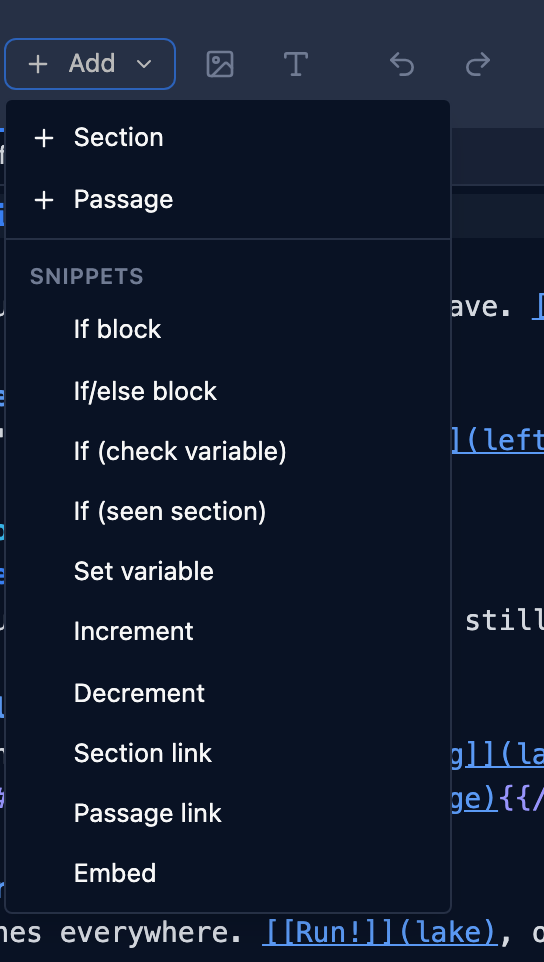
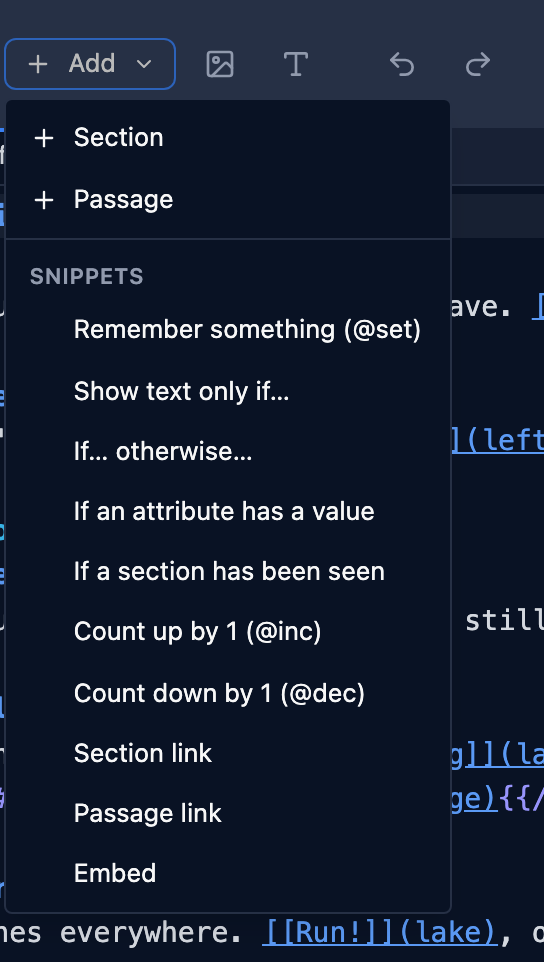
feat: show a newcomer how to make the story remember something (#710)
The starter story now sets an attribute with @set in its passage and shows
one of two lines with {{#if}}…{{else}}…{{/if}}, with a comment on what they
do. The Add menu's snippets are named by task ("Remember something (@set)",
"Show text only if…", "If… otherwise…"…), say "attribute", and insert @set,
@inc and @dec on a line of their own. The Add button's tooltip says what it
holds, and the Tutorial shows the if/else block on its own, explaining #,
else and /.

diff --git a/app/src/lib/editor-commands.test.ts b/app/src/lib/editor-commands.test.ts
@@ -1,7 +1,7 @@
 import { describe, expect, test } from "vitest";
 import { EditorSelection, EditorState } from "@codemirror/state";
 import type { DocumentSymbol } from "squiffy-compiler/language-service";
-import { addSectionOrPassageSpec, userSnippets } from "./editor-commands.js";
+import { addSectionOrPassageSpec, insertSnippetSpec, userSnippets } from "./editor-commands.js";
 
 const range = (start: number, end: number) => ({ start: { line: start, character: 0 }, end: { line: end, character: 0 } });
 const symbol = (name: string, kind: DocumentSymbol["kind"], start: number, end: number): DocumentSymbol =>
@@ -14,6 +14,37 @@ function run(doc: string, from: number, to: number, kind: "section" | "passage",
     const head = after.selection.main.head;
     return after.doc.sliceString(0, head) + "|" + after.doc.sliceString(head);
 }
+
+// Inserts a snippet with | as the cursor, and returns the text with | where the cursor ends up
+function snippet(doc: string, content: string) {
+    const at = doc.indexOf("|");
+    const state = EditorState.create({ doc: doc.replace("|", ""), selection: EditorSelection.cursor(at) });
+    const after = state.update(insertSnippetSpec(state, content)).state;
+    const head = after.selection.main.head;
+    return after.doc.sliceString(0, head) + "|" + after.doc.sliceString(head);
+}
+
+describe("Snippets", () => {
+    test("go where the cursor is", () => {
+        expect(snippet("You see |.", "{{embed \"name\"}}")).toBe("You see {{embed \"name\"}}|.");
+    });
+
+    test("that start with @ go on the cursor's line when it's blank", () => {
+        expect(snippet("[[a]]:\n|\nText.", "@set attribute")).toBe("[[a]]:\n@set attribute|\nText.");
+    });
+
+    test("that start with @ go on a line after the cursor's, when there's text before the cursor", () => {
+        expect(snippet("[[a]]:\nYou take| the key.", "@set attribute")).toBe("[[a]]:\nYou take the key.\n@set attribute|");
+    });
+
+    test("that start with @ go on a line before the cursor's, when the cursor is at its start", () => {
+        expect(snippet("[[a]]:\n|You take the key.", "@set attribute")).toBe("[[a]]:\n@set attribute|\nYou take the key.");
+    });
+
+    test("that start with @ go after a header, not before it", () => {
+        expect(snippet("|[[a]]:\nText.", "@inc score")).toBe("[[a]]:\n@inc score|\nText.");
+    });
+});
 
 describe("Add section and Add passage", () => {
     const doc = "[[a]]:\nGo to cave.\n\n[[b]]:\nEnd.";

diff --git a/app/src/lib/snippets.ts b/app/src/lib/snippets.ts
@@ -1,18 +1,19 @@
-// The 6.x editor's built-in snippets (editor/src/snippets.ts).
+// The Add menu's snippets, named by what they're for (#710), which VS Code's snippets match
+// (vscode/snippets/squiffy.code-snippets). One that starts with @ goes on a line of its own.
 export interface Snippet {
     name: string;
     content: string;
 }
 
 export const builtInSnippets: Snippet[] = [
-    { name: "If block",            content: "{{#if condition}}\n\n{{/if}}" },
-    { name: "If/else block",       content: "{{#if condition}}\n\n{{else}}\n\n{{/if}}" },
-    { name: "If (check variable)", content: '{{#if variable = "value"}}\n\n{{/if}}' },
-    { name: "If (seen section)",   content: '{{#if (seen "section")}}\n\n{{/if}}' },
-    { name: "Set variable",        content: '{{set "variable" "value"}}' },
-    { name: "Increment",           content: '{{inc "variable"}}' },
-    { name: "Decrement",           content: '{{dec "variable"}}' },
-    { name: "Section link",        content: '{{section "name" text="label"}}' },
-    { name: "Passage link",        content: '{{passage "name" text="label"}}' },
-    { name: "Embed",               content: '{{embed "name"}}' },
+    { name: "Remember something (@set)",  content: "@set attribute" },
+    { name: "Show text only if…",         content: "{{#if condition}}\n\n{{/if}}" },
+    { name: "If… otherwise…",             content: "{{#if condition}}\n\n{{else}}\n\n{{/if}}" },
+    { name: "If an attribute has a value", content: '{{#if attribute = "value"}}\n\n{{/if}}' },
+    { name: "If a section has been seen", content: '{{#if (seen "section")}}\n\n{{/if}}' },
+    { name: "Count up by 1 (@inc)",       content: "@inc attribute" },
+    { name: "Count down by 1 (@dec)",     content: "@dec attribute" },
+    { name: "Section link",               content: '{{section "name" text="label"}}' },
+    { name: "Passage link",               content: '{{passage "name" text="label"}}' },
+    { name: "Embed",                      content: '{{embed "name"}}' },
 ];

diff --git a/app/src/lib/editor-commands.ts b/app/src/lib/editor-commands.ts
@@ -16,8 +16,30 @@ export function runCommand(view: EditorView, command: EditorCommand) {
 }
 
 export function insertSnippet(view: EditorView, content: string) {
-    view.dispatch(view.state.replaceSelection(content), { scrollIntoView: true });
+    view.dispatch(insertSnippetSpec(view.state, content), { scrollIntoView: true });
     view.focus();
+}
+
+// A snippet replaces the selection, except one that starts with @, such as @set, which only
+// works on a line of its own: that goes on the cursor's line if it's blank, or else on a new
+// line before it (with the cursor at its start, unless it's a section or passage's header) or
+// after it.
+export function insertSnippetSpec(state: EditorState, content: string): TransactionSpec {
+    if (!content.startsWith("@")) return state.replaceSelection(content);
+    const head = state.selection.main.head;
+    const line = state.doc.lineAt(head);
+    let from = line.from, to = line.to, insert = content;
+    if (line.text.trim()) {
+        if (state.sliceDoc(line.from, head).trim() || /^\[.*\]:\s*$/.test(line.text)) {
+            from = to = line.to;
+            insert = "\n" + content;
+        } else {
+            to = from;
+            insert = content + "\n";
+        }
+    }
+    const end = from + insert.length - (insert.endsWith("\n") ? 1 : 0);
+    return { changes: { from, to, insert }, selection: EditorSelection.cursor(end) };
 }
 
 // A new section or passage, after the section the cursor is in (passages belong to it). With

diff --git a/app/src/lib/project.svelte.ts b/app/src/lib/project.svelte.ts
@@ -49,11 +49,19 @@ Start writing! Each choice is a [[new section]]: put double square brackets arou
 Sections can also have passages, which add text without moving the story on. Click this [passage link], and then carry on to the [[next section]].
 
 [passage link]:
+@set clicked_passage
 
-This is the text for the passage.
+This is the text for the passage. The @set above makes the story remember that you clicked it.
 
 [[next section]]:
 @end
+
+{{!-- This is how the story remembers a choice. The @set in the passage above sets an attribute called clicked_passage. {{#if clicked_passage}} starts some text that's only shown if it's set (the # says that a block starts here). {{else}} starts the text to show if it isn't, and {{/if}} ends the block. --}}
+{{#if clicked_passage}}
+You clicked the passage link, so you see this.
+{{else}}
+You didn't click the passage link, so you see this instead.
+{{/if}}
 
 When a new section appears, any passage links in the previous section that weren't clicked are disabled.
 

diff --git a/vscode/src/client/new-story.ts b/vscode/src/client/new-story.ts
@@ -19,11 +19,19 @@ Start writing! Each choice is a [[new section]]: put double square brackets arou
 Sections can also have passages, which add text without moving the story on. Click this [passage link], and then carry on to the [[next section]].
 
 [passage link]:
+@set clicked_passage
 
-This is the text for the passage.
+This is the text for the passage. The @set above makes the story remember that you clicked it.
 
 [[next section]]:
 @end
+
+{{!-- This is how the story remembers a choice. The @set in the passage above sets an attribute called clicked_passage. {{#if clicked_passage}} starts some text that's only shown if it's set (the # says that a block starts here). {{else}} starts the text to show if it isn't, and {{/if}} ends the block. --}}
+{{#if clicked_passage}}
+You clicked the passage link, so you see this.
+{{else}}
+You didn't click the passage link, so you see this instead.
+{{/if}}
 
 When a new section appears, any passage links in the previous section that weren't clicked are disabled.
 

diff --git a/app/src/components/Toolbar.svelte b/app/src/components/Toolbar.svelte
@@ -266,7 +266,7 @@
                             type="button"
                             class="btn btn-xs preset-outlined-primary-500"
                             onclick={toggle}
-                            title="Add a section, passage or snippet"
+                            title="Add a section, passage, link, condition or something to remember"
                             aria-haspopup="menu"
                             aria-expanded={open}
                         ><Plus size={14} /> <span class="hidden md:inline">Add</span> <ChevronDown size={12} class="hidden md:inline" /></button>
